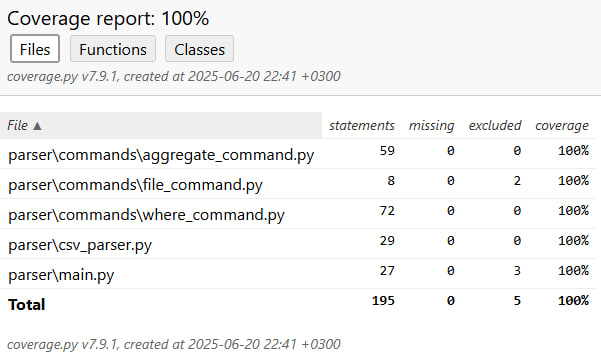
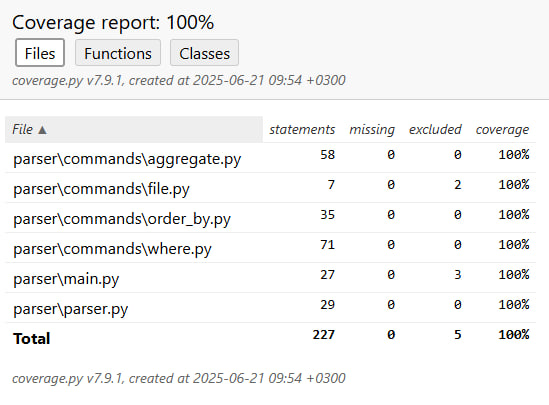
добавлена команда --order-by

diff --git a/parser/commands/order_by.py b/parser/commands/order_by.py
@@ -1,0 +1,86 @@
+import logging
+from typing import List, Tuple
+
+from .interfaces import BaseCommand, Condition, Row
+
+logging.basicConfig(level=logging.INFO, format='%(levelname)s: %(message)s')
+
+
+class OrderByCommand(BaseCommand):
+    """Команда сортировки записей по условиям 'asc' и 'desc'."""
+
+    def add_argument(self) -> None:
+        self.parser.add_argument(
+            '--order-by',
+            type=str,
+            required=False,
+            help='Обрабатываемый CSV-файл.'
+        )
+
+    def get_key(self) -> str:
+        return 'order_by'
+
+    def run(
+        self,
+        arg_value: str,
+        headers: List[str],
+        rows: List[Row]
+    ) -> Tuple[List, List]:
+
+        if (
+            '=' not in arg_value
+            or not any(x in arg_value for x in ('asc', 'desc'))
+        ):
+            logging.error(
+                f'В команде {self.get_key()} '
+                f'невалидные данные. \n'
+                f'Итог: данные не отфильтрованы.'
+            )
+            return headers, rows
+
+        column, value = arg_value.split('=')
+        condition = self.condition(column, value)
+
+        if condition.value == 'asc':
+            operation, result = self._asc(condition, headers, rows)
+
+        if condition.value == 'desc':
+            operation, result = self._desc(condition, headers, rows)
+
+        return operation, result
+
+    def _asc(
+        self,
+        condition: Condition,
+        headers: List[str],
+        rows: List[Row]
+    ) -> Tuple[List, List]:
+
+        if condition.column not in headers:
+            return headers, rows
+        rows = sorted(
+            rows,
+            key=lambda r: self.__try_cast(getattr(r, condition.column))
+        )
+        return headers, rows
+
+    def _desc(
+        self,
+        condition: Condition,
+        headers: List[str],
+        rows: List[Row]
+    ) -> Tuple[List, List]:
+
+        if condition.column in headers:
+            rows = sorted(
+                rows,
+                key=lambda r: self.__try_cast(getattr(r, condition.column)),
+                reverse=True
+            )
+        return headers, rows
+
+    def __try_cast(self, value):
+        try:
+            return (0, float(value))
+        except (ValueError, TypeError):
+            return (1, value)

diff --git a/tests/test_order_by.py b/tests/test_order_by.py
@@ -1,0 +1,60 @@
+from parser.commands import OrderByCommand
+
+import pytest
+from pytest_lazyfixture import lazy_fixture  # type: ignore
+
+from .base_class import BaseCommandTestClass
+
+
+class TestAggretageCommand(BaseCommandTestClass):
+    command_cls = OrderByCommand
+
+    def test_add_argument(self, parser, command):
+        command.add_argument()
+        args = parser.parse_args(['--order-by', 'column=value'])
+        assert (
+            args.order_by == 'column=value'
+        ), 'Значение аргумента не соответствует заданному.'
+
+    def test_get_key(self, command):
+        key = command.get_key()
+        assert key == 'order_by', 'Ключ не совпадает.'
+
+    def test_bind_arg(self, parser, command):
+        command.add_argument()
+        args = parser.parse_args(['--order-by', 'column=value'])
+        command.bind_arg(args)
+        assert (
+            command.arg == 'column=value'
+        ), 'Значение аргумента не соответствует заданному.'
+
+    @pytest.mark.parametrize(
+        ('arg_value', 'expected'),
+        [
+            ('name=asc', lazy_fixture('asc_name_rows')),
+            ('name=desc', lazy_fixture('desc_name_rows')),
+            ('brand=asc', lazy_fixture('rows')),
+            ('brand=desc', lazy_fixture('desc_brand_rows')),
+            ('brandprice=asc', lazy_fixture('desc_name_rows')),
+            ('brandprice=desc', lazy_fixture('asc_name_rows')),
+            ('rating=asc', lazy_fixture('desc_brand_rows')),
+            ('rating=desc', lazy_fixture('rows')),
+            ('сolumn=asc', lazy_fixture('rows')),
+            ('сolumn=value', lazy_fixture('rows')),
+            ('сolumn', lazy_fixture('rows')),
+        ],
+    )
+    def test_run(self, parser, command, headers, rows, arg_value, expected):
+        command.add_argument()
+        args = parser.parse_args(['--order-by', arg_value])
+        command_headers, command_rows = command.run(
+            args.order_by,
+            headers,
+            rows
+        )
+        assert (
+            command_headers == headers
+        ), 'Заголовки не соответствуют заданным.'
+        assert (
+            command_rows == expected
+        ), 'Записи не соответствуют заданным.'

diff --git a/tests/conftest.py b/tests/conftest.py
@@ -94,3 +94,103 @@ def filtered_max_rating_row():
         brandprice='999',
         rating='4.9'
     )]
+
+
+@pytest.fixture
+def asc_name_rows():
+    rows = [
+        Row(
+            name='galaxy s23 ultra',
+            brand='samsung',
+            brandprice='1199',
+            rating='4.8'
+        ),
+        Row(
+            name='iphone 15 pro',
+            brand='apple',
+            brandprice='999',
+            rating='4.9'
+        ),
+        Row(
+            name='redmi 10c',
+            brand='xiaomi',
+            brandprice='149',
+            rating='4.1'
+        ),
+    ]
+    return rows
+
+
+@pytest.fixture
+def desc_name_rows():
+    rows = [
+        Row(
+            name='redmi 10c',
+            brand='xiaomi',
+            brandprice='149',
+            rating='4.1'
+        ),
+        Row(
+            name='iphone 15 pro',
+            brand='apple',
+            brandprice='999',
+            rating='4.9'
+        ),
+        Row(
+            name='galaxy s23 ultra',
+            brand='samsung',
+            brandprice='1199',
+            rating='4.8'
+        ),
+    ]
+    return rows
+
+
+@pytest.fixture
+def asc_brand_rows():
+    rows = [
+        Row(
+            name='iphone 15 pro',
+            brand='apple',
+            brandprice='999',
+            rating='4.9'
+        ),
+        Row(
+            name='galaxy s23 ultra',
+            brand='samsung',
+            brandprice='1199',
+            rating='4.8'
+        ),
+        Row(
+            name='redmi 10c',
+            brand='xiaomi',
+            brandprice='149',
+            rating='4.1'
+        ),
+    ]
+    return rows
+
+
+@pytest.fixture
+def desc_brand_rows():
+    rows = [
+        Row(
+            name='redmi 10c',
+            brand='xiaomi',
+            brandprice='149',
+            rating='4.1'
+        ),
+        Row(
+            name='galaxy s23 ultra',
+            brand='samsung',
+            brandprice='1199',
+            rating='4.8'
+        ),
+        Row(
+            name='iphone 15 pro',
+            brand='apple',
+            brandprice='999',
+            rating='4.9'
+        ),
+    ]
+    return rows

diff --git a/parser/commands/__init__.py b/parser/commands/__init__.py
@@ -1,12 +1,14 @@
 from .aggregate import AggregateCommand
 from .file import FileCommand
 from .interfaces import BaseCommand, Row
+from .order_by import OrderByCommand
 from .where import WhereCommand
 
 __all__ = [
     'FileCommand',
     'WhereCommand',
     'AggregateCommand',
+    'OrderByCommand',
     'BaseCommand',
     'Row'
 ]

diff --git a/README.md b/README.md
@@ -57,9 +57,31 @@ $ source venv/bin/activate
 ![Рейтинг минимальный](screenshots/rating_min.jpg)
 ![Рейтинг максимальный](screenshots/rating_max.jpg)
 
+### Аргумент '--order-by'
+
+| поле       | доступные операции |
+|-----------:|:------------------:|
+| name       | asc, desc          |
+| brand      | asc, desc          |
+| brandprice | asc, desc          |
+| rating     | asc, desc          |
+
+#### Примеры:
+![Название по возрастанию](screenshots/name_asc.jpg)
+![Название по убыванию](screenshots/name_desc.jpg)
+![Брэнд по возрастанию](screenshots/brand_asc.jpg)
+![Брэнд по убыванию](screenshots/brand_desc.jpg)
+![Цена по возрастанию](screenshots/price_asc.jpg)
+![Цена по убыванию](screenshots/price_desc.jpg)
+![Рейтинг по возрастанию](screenshots/rating_asc.jpg)
+![Рейтинг по убыванию](screenshots/rating_desc.jpg)
+
+
 ### Комбинирование аргументов
-#### --where и --aggregate можно совмещать:
+#### --where и --aggregate:
 ![Фильтрация и аггрегация](screenshots/where_and_aggregate.jpg)
+#### --where и --order-by:
+![Фильтрация и аггрегация](screenshots/where_and_order.jpg)
 
 ## Тестирование
 
